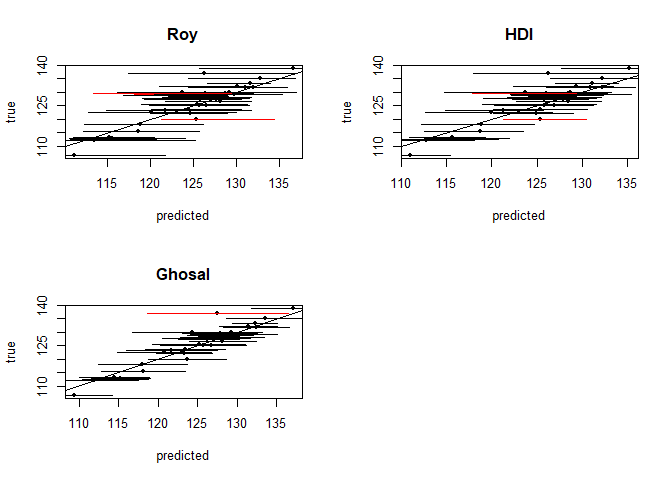
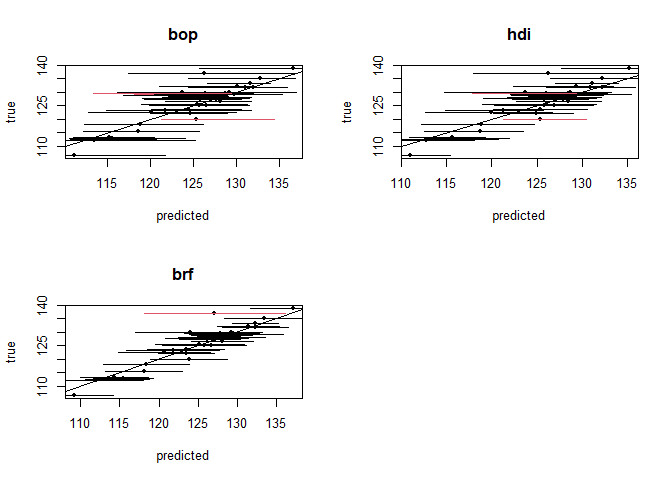
labels changed in vignette

diff --git a/README.md b/README.md
@@ -78,7 +78,7 @@ Prediction intervals are generated for each of the methods implemented
 using train and test datasets constructed from the *airfoil* data.
 
 ``` r
-method_vec <- c("quantile", "Zhang", "Tung", "Romano", "Roy", "HDI", "Ghosal")
+method_vec <- c("quantile", "oob", "bcqrf", "cqrf", "bop", "hdi", "brf")
 #generate train and test data
 set.seed(2020)
 ratio <- .975
@@ -108,12 +108,12 @@ intervals.
 #empirical coverage, and average prediction interval length for each method
 coverage <- sapply(res$int, FUN = getCoverage, response = test$pressure)
 coverage
-#>  quantile     Zhang      Tung    Romano       Roy       HDI    Ghosal 
+#>  quantile       oob     bcqrf      cqrf       bop       hdi       brf 
 #> 0.8947368 0.8947368 0.9736842 0.8684211 0.9210526 0.9210526 0.9736842
 length <- sapply(res$int, FUN = getPILength)
 length
-#>  quantile     Zhang      Tung    Romano       Roy       HDI    Ghosal 
-#> 10.233720  7.035656 10.252380 10.845905 11.893628  9.989026  9.048103
+#>  quantile       oob     bcqrf      cqrf       bop       hdi       brf 
+#> 10.233720  7.035656 10.252380 10.845905 11.893628  9.989026  9.070010
 ```
 
 Below are plots of the resulting prediction intervals generated for each
